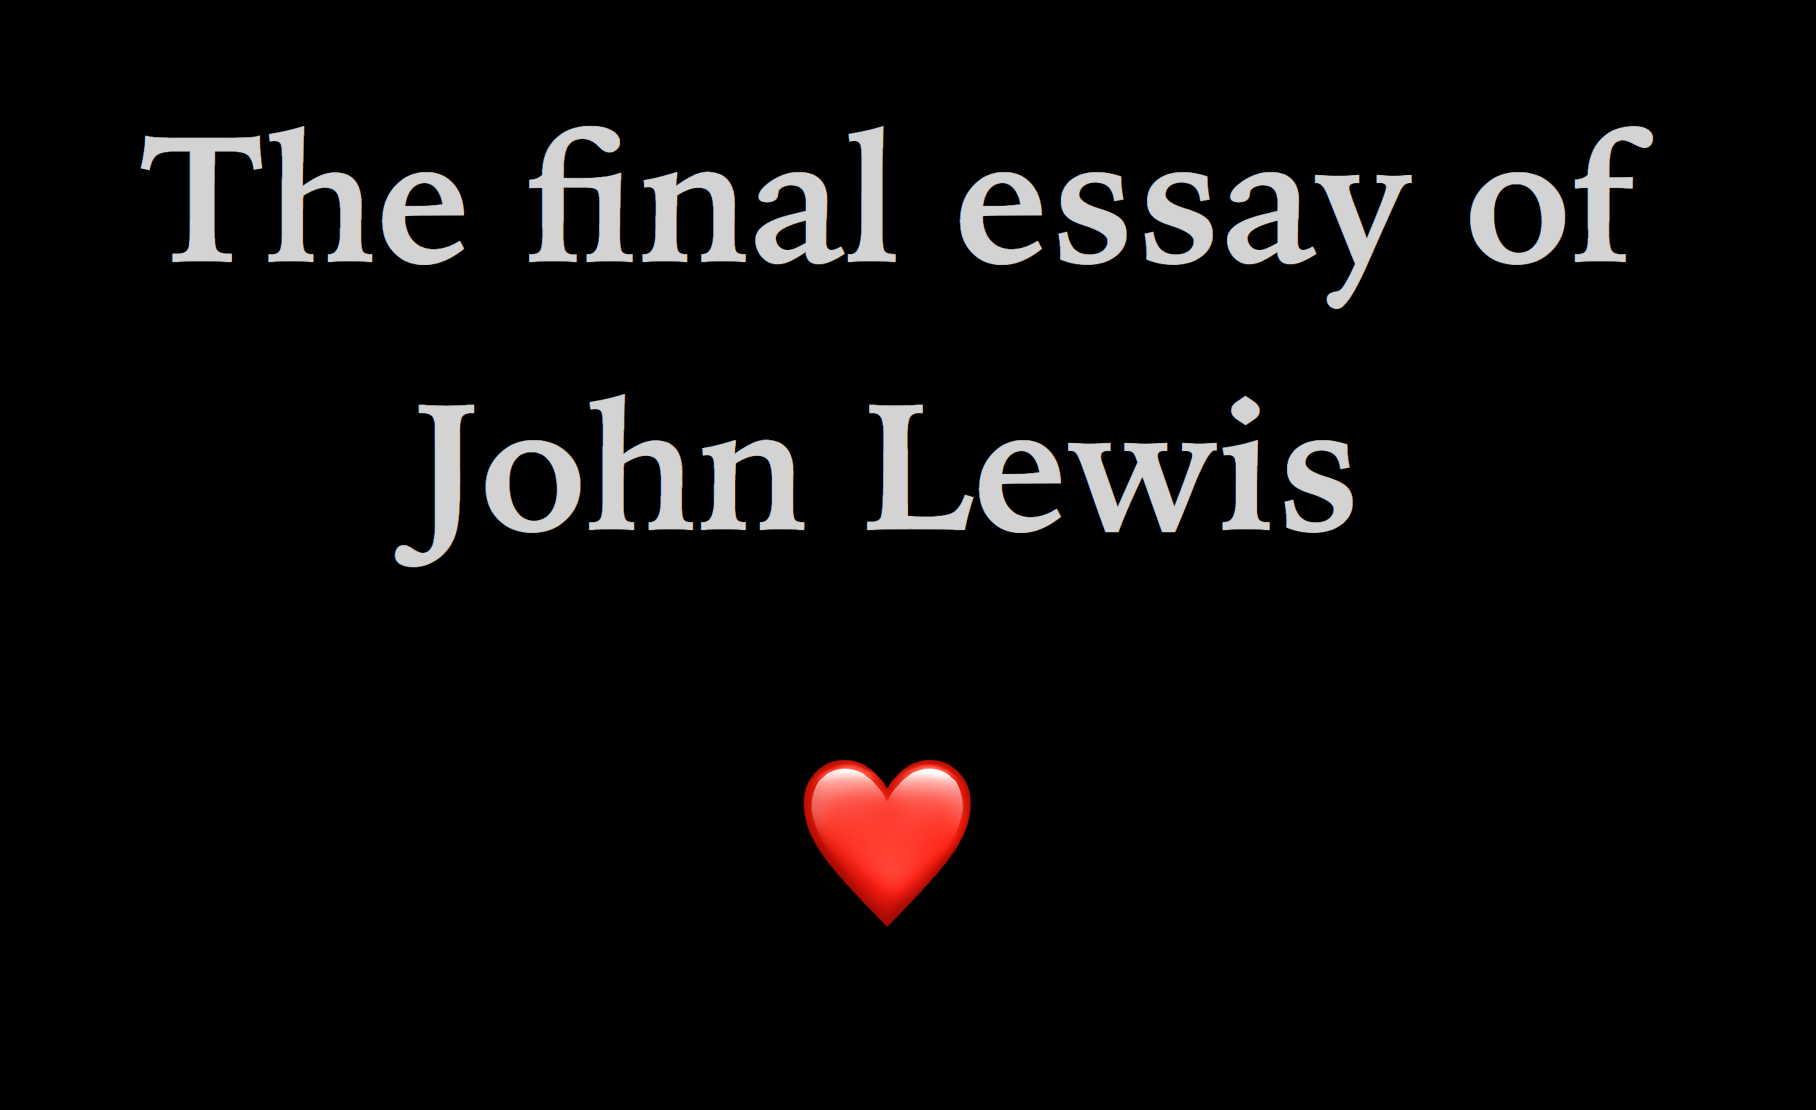
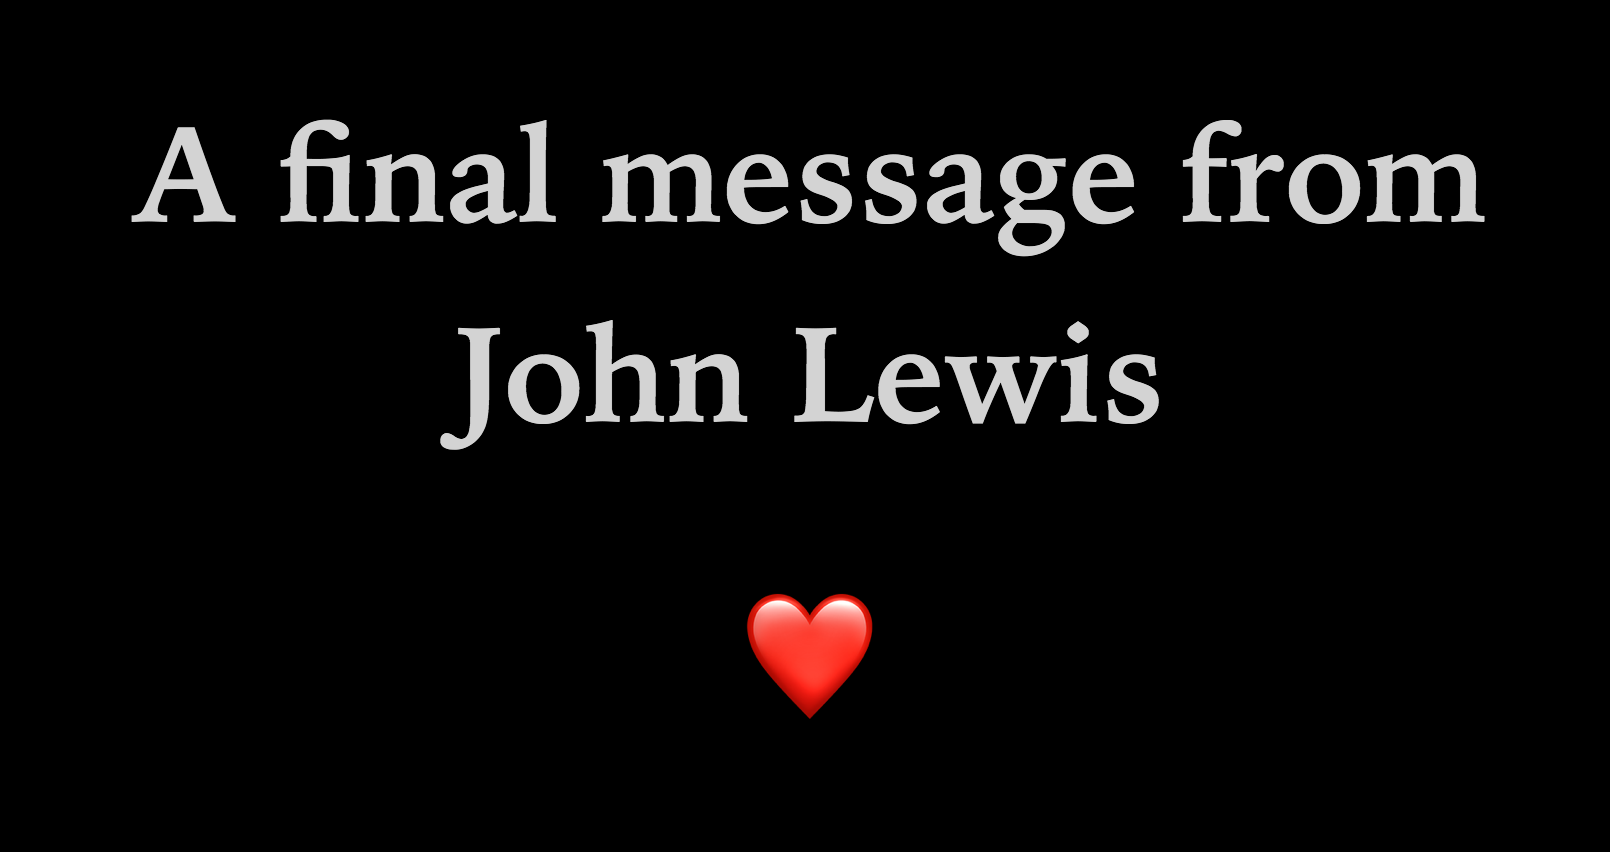
Update title and description

Changed region(s): [[0.0621, 0.0915, 0.9317, 0.3052], [0.2174, 0.3357, 0.7453, 0.5493], [0.4348, 0.6714, 0.559, 0.8545]]

diff --git a/index.html b/index.html
@@ -6,16 +6,16 @@
     <meta charset="utf-8">
     <meta name="viewport" content="width=device-width, initial-scale=1.0">
 
-    <title>The Final Essay of John Lewis</title>
-    <meta name="description" content="Republished with ❤ by Code for Atlanta">
+    <title>A final message from John Lewis</title>
+    <meta name="description" content="&quot;Democracy is not a state. It is an act, and each generation must do its part&quot;">
     
-    <meta property="og:title" content="The Final Essay of John Lewis">
-    <meta property="og:description" content="Republished with ❤ by Code for Atlanta">
+    <meta property="og:title" content="A final message from John Lewis">
+    <meta property="og:description" content="&quot;Democracy is not a state. It is an act, and each generation must do its part&quot;">
     <meta property="og:image" content="https://johnlewis.love/social-preview.png">
     <meta property="og:url" content="https://johnlewis.love">
     
-    <meta name="twitter:title" content="The Final Essay of John Lewis">
-    <meta name="twitter:description" content="Republished with ❤ by Code for Atlanta">
+    <meta name="twitter:title" content="A final message from John Lewis">
+    <meta name="twitter:description" content="&quot;Democracy is not a state. It is an act, and each generation must do its part&quot;">
     <meta name="twitter:image" content="https://johnlewis.love/social-preview.png">
     <meta name="twitter:card" content="summary_large_image">
 
@@ -41,11 +41,18 @@
         }
     </style>
 
+    <script async src="https://www.googletagmanager.com/gtag/js?id=UA-68667441-3"></script>
+    <script>
+    window.dataLayer = window.dataLayer || [];
+    function gtag(){dataLayer.push(arguments);}
+    gtag('js', new Date());
+    gtag('config', 'UA-68667441-3');
+    </script>
 </head>
 
 <body>
     <header>
-        <h1>The final essay of John Lewis</h1>
+        <h1>A final message from John Lewis</h1>
         <h4><em>Published on July 30, 2020, the day of his funeral</em></h4>
     </header>
 
